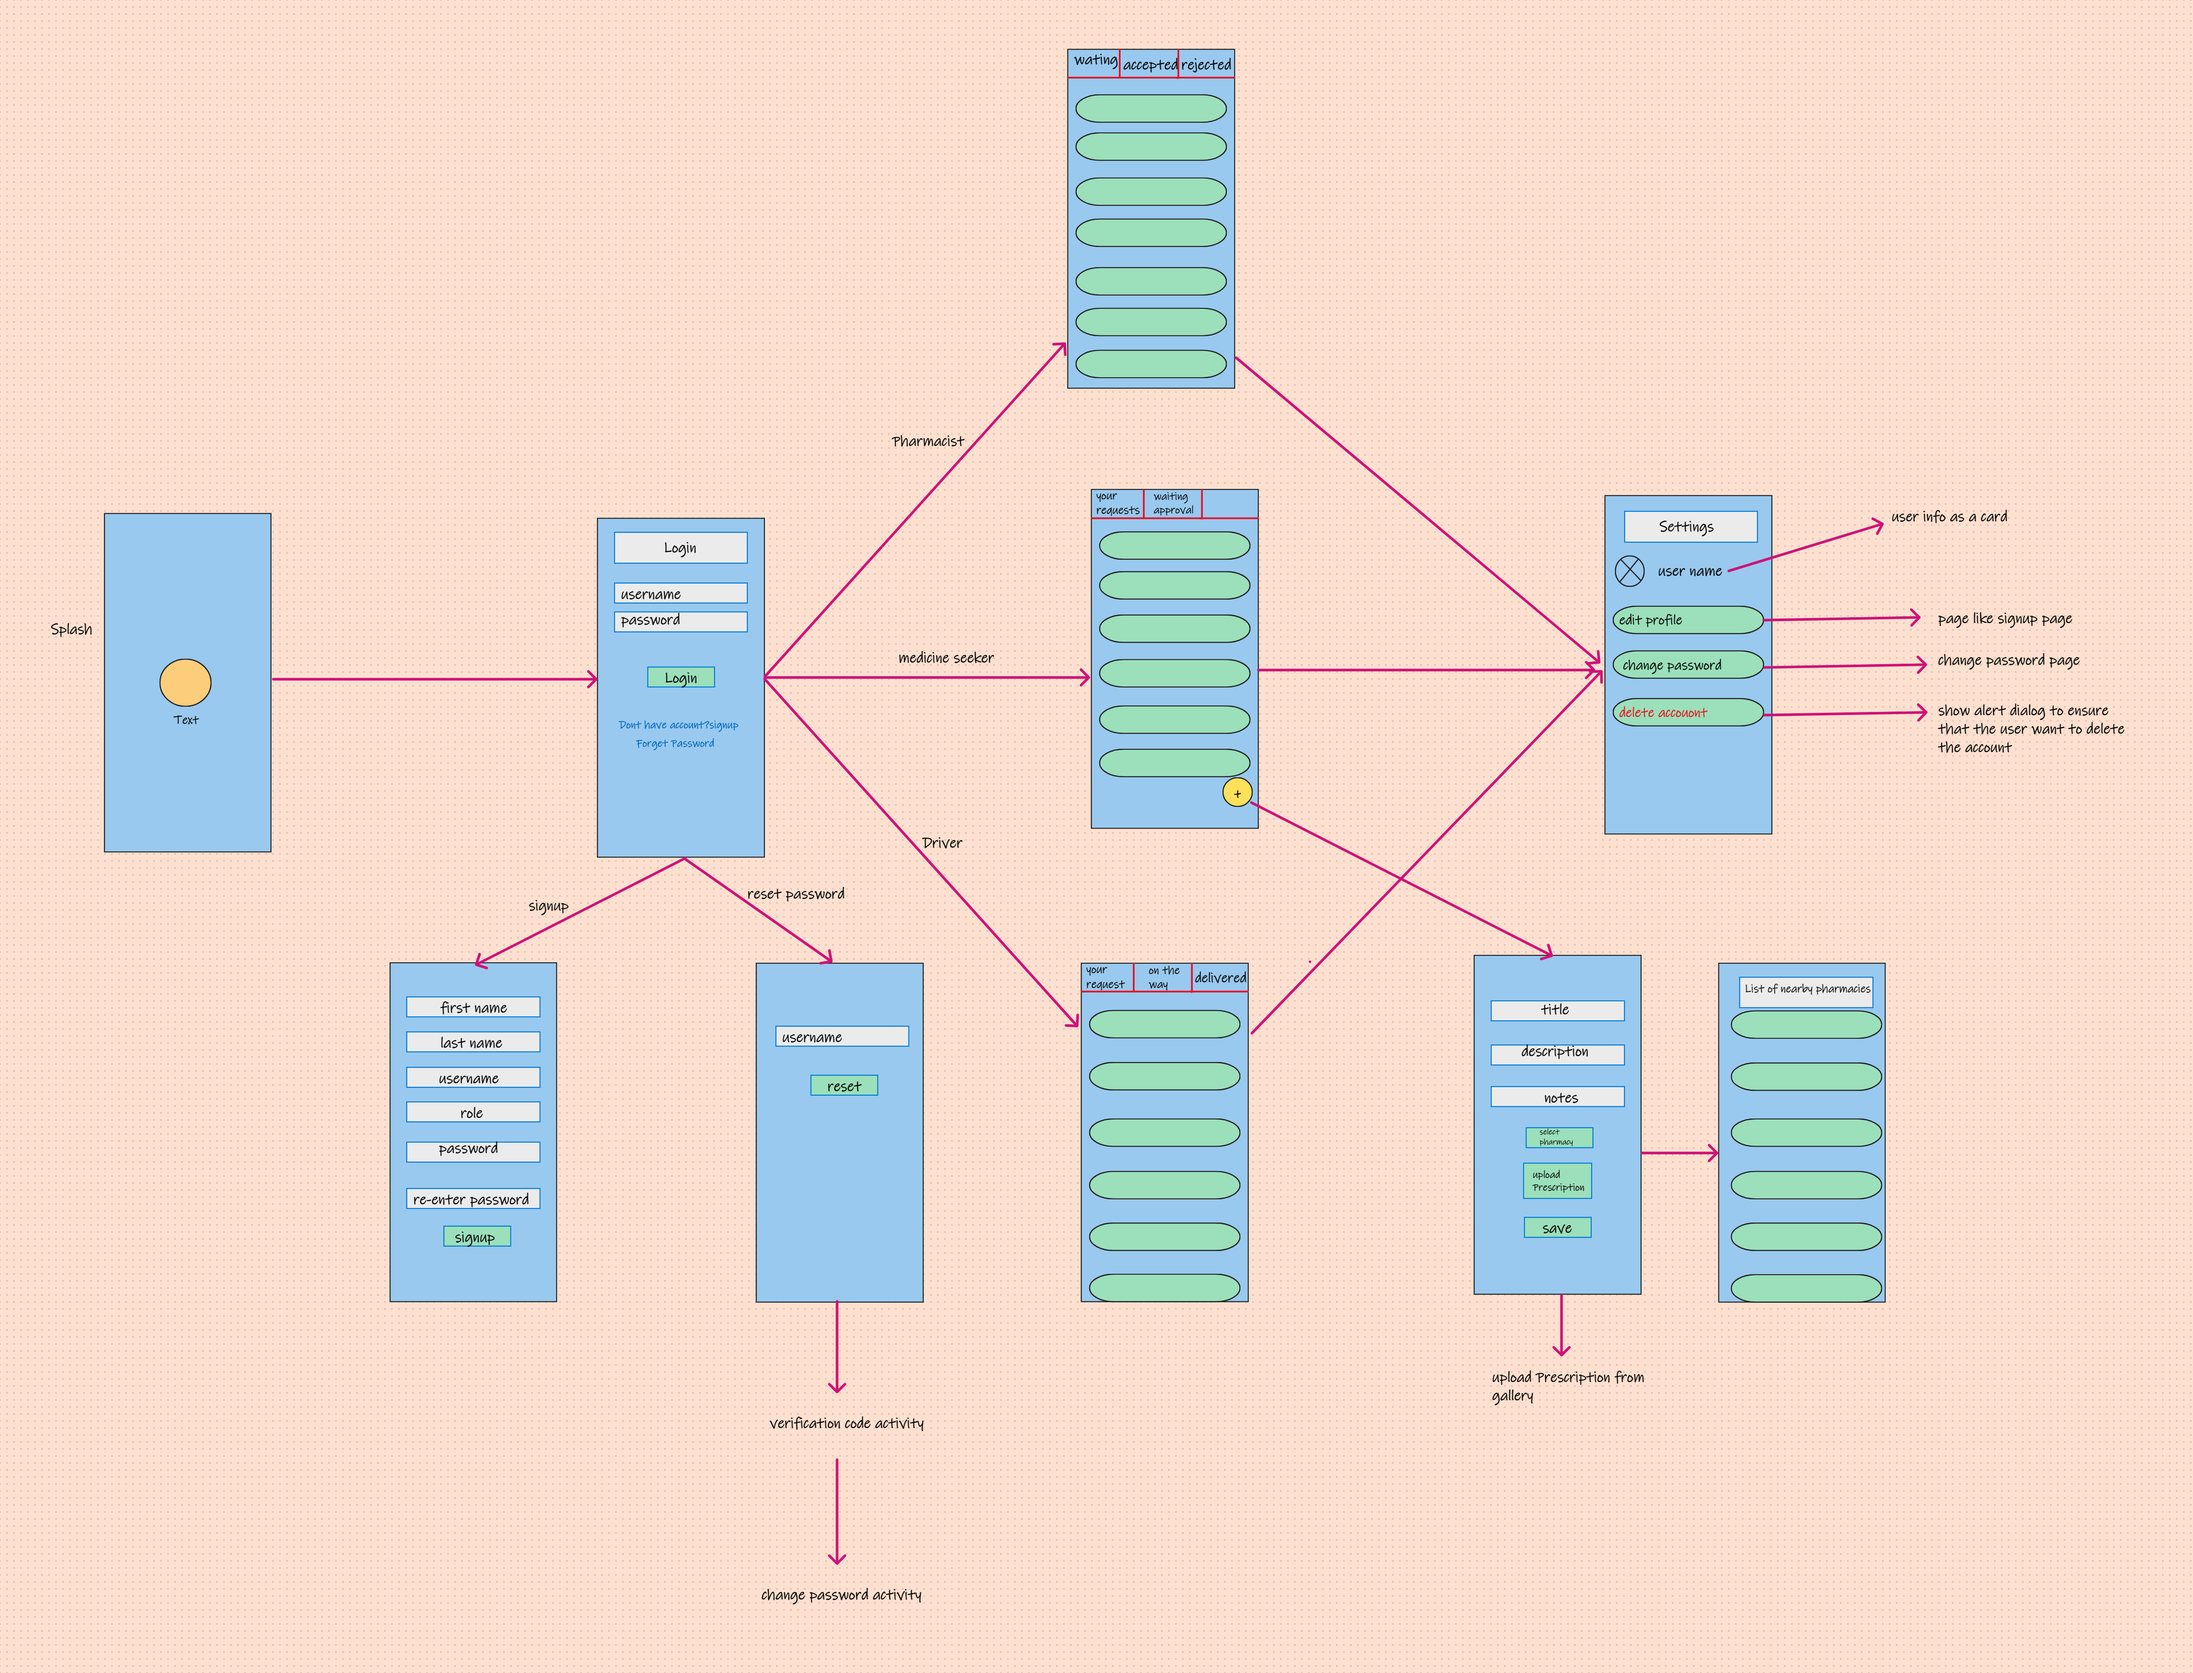
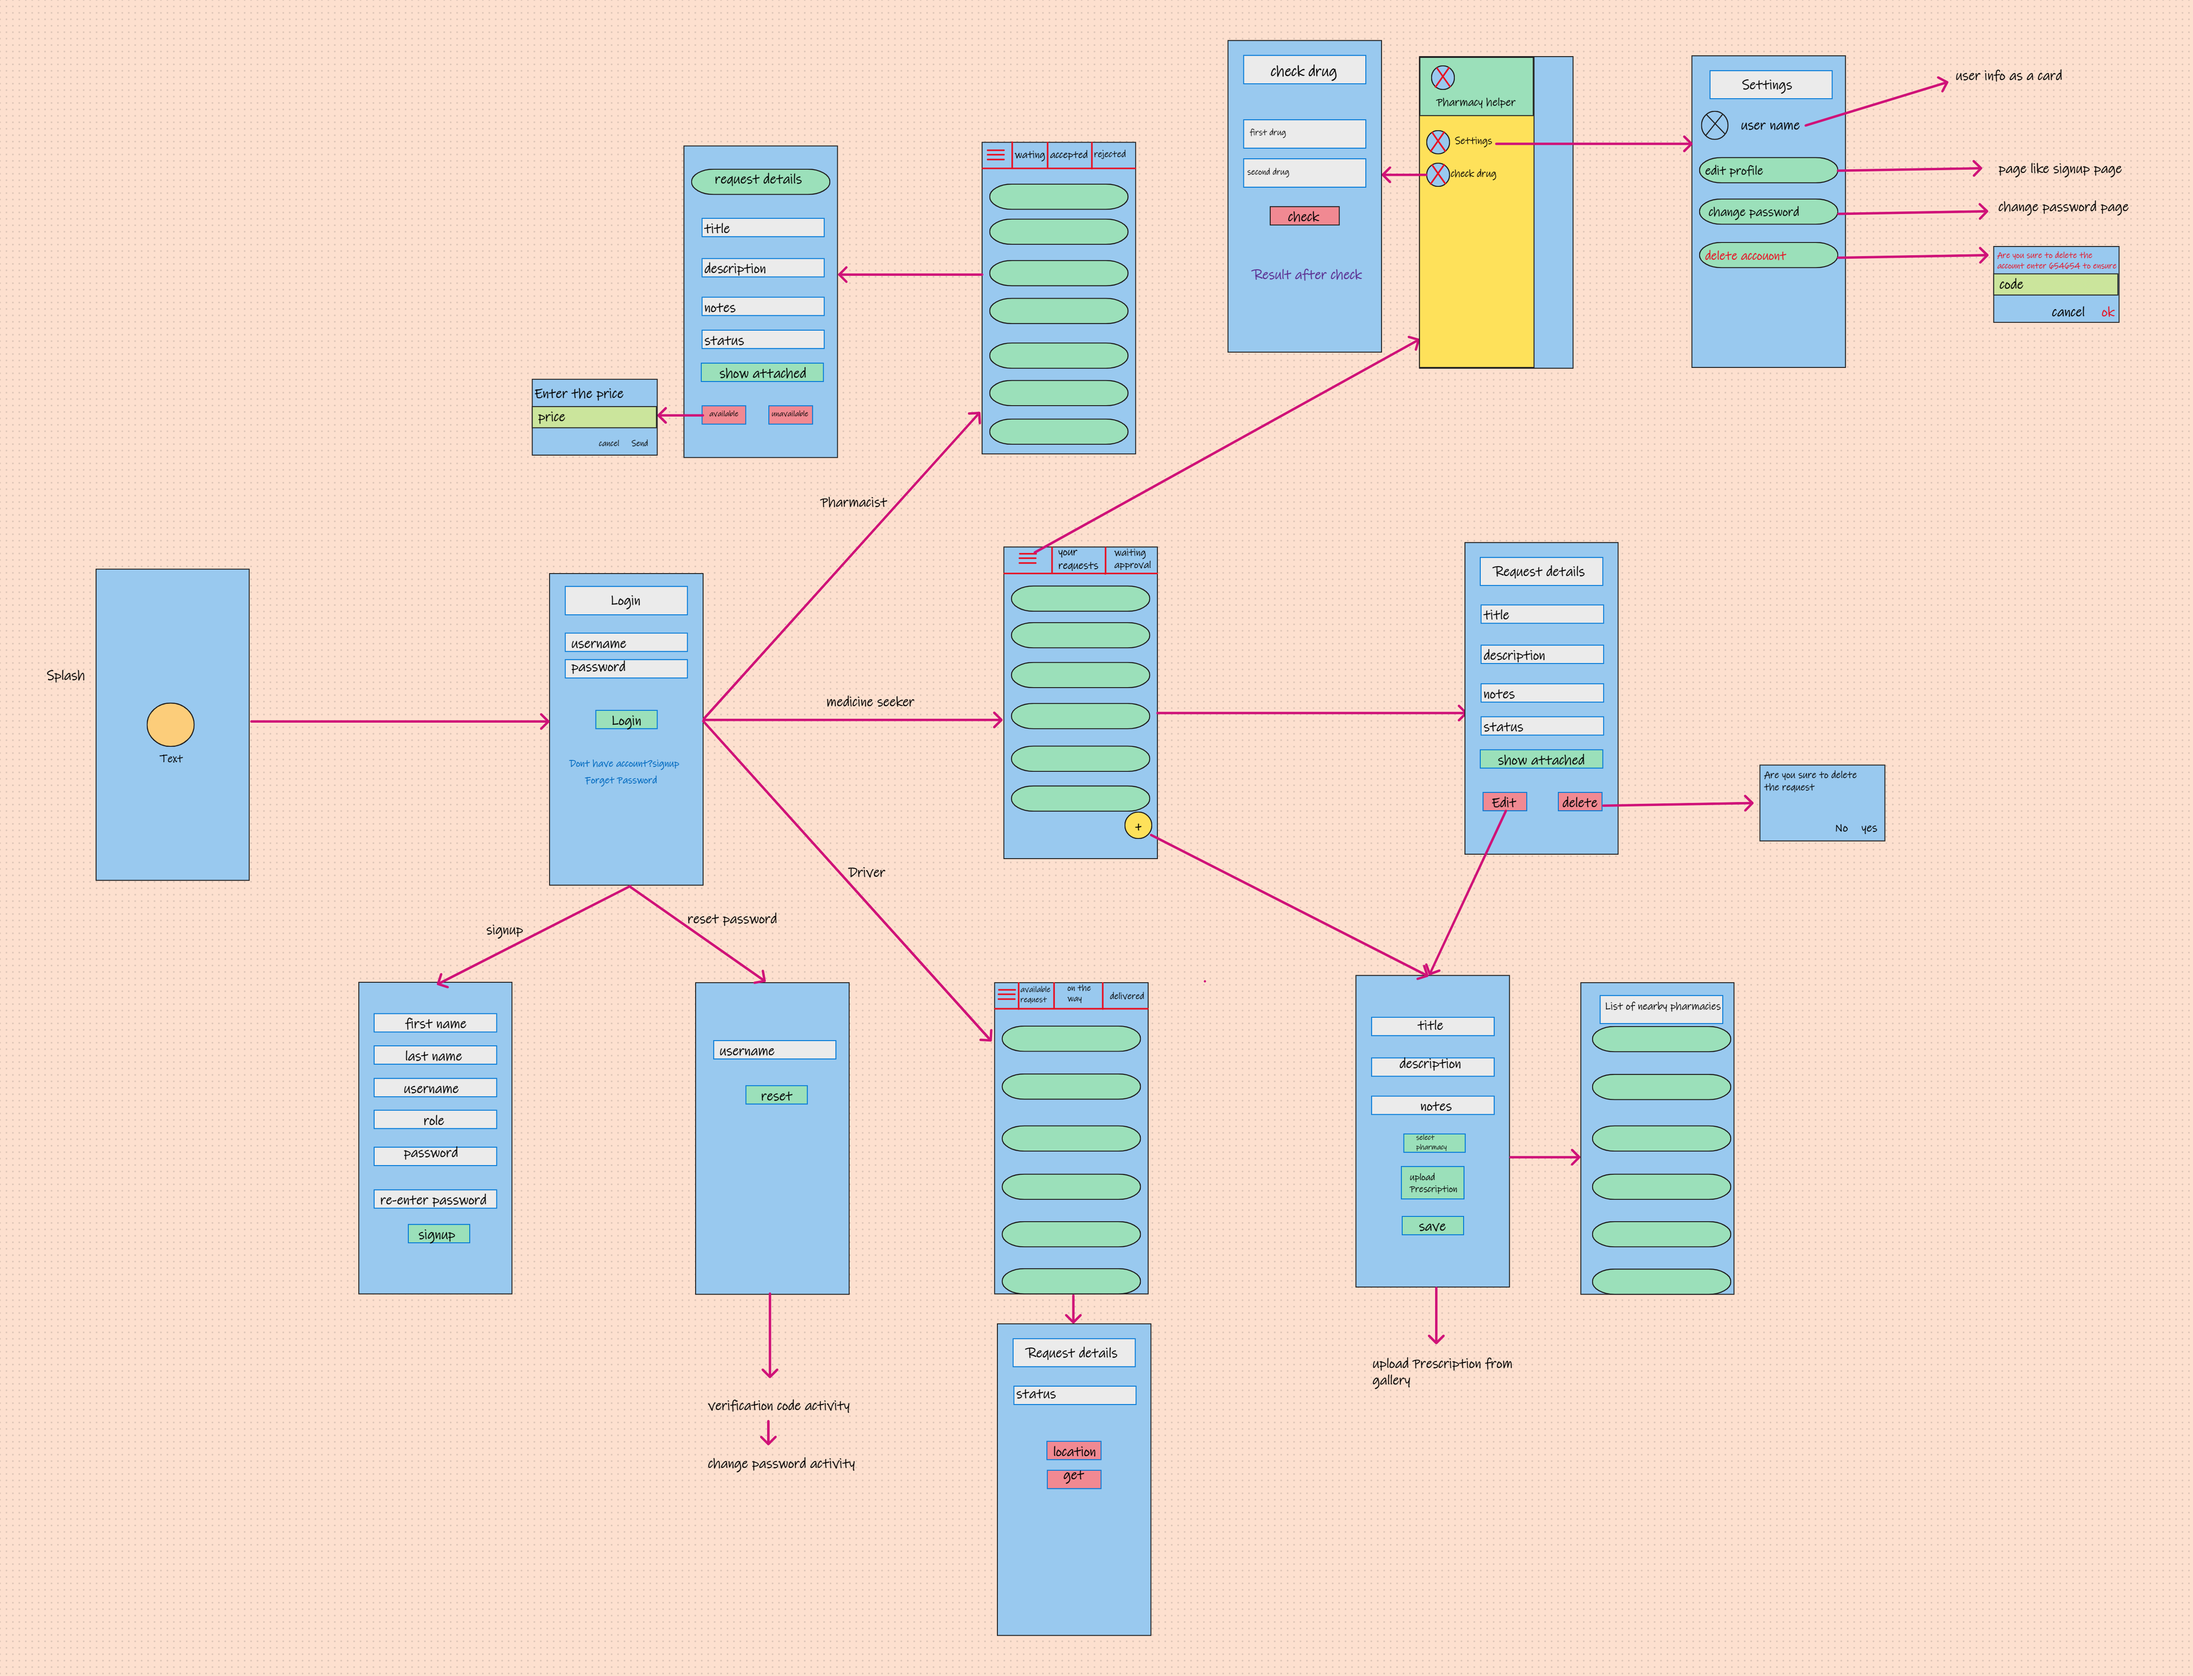
MohammadGhanemDay0-Add wireframe

diff --git a/README.md b/README.md
@@ -35,7 +35,7 @@
 - Ensure that the driver is received the request to deliver the drug. 
 
 ## Project Wireframe
-### TODO
+![Wireframe](Assets/FinalProjectWireframe.png)
 
 ## Software Requirements -> [here](ProjectReadMeFile/requirements.md)
 
